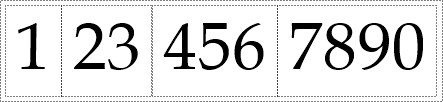
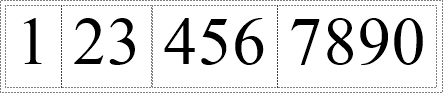
Began experimenting with drawing brackets manually

diff --git a/MathematicsTypesetting/Paths.cs b/MathematicsTypesetting/Paths.cs
@@ -1,0 +1,29 @@
+using System;
+using System.Collections.Generic;
+using System.Linq;
+using System.Text;
+using System.Threading.Tasks;
+using System.Drawing;
+
+namespace MathematicsTypesetting
+{
+    public class Paths
+    {
+        public static System.Drawing.Drawing2D.GraphicsPath GetBracketPath(PointF offset,  float fontHeight = 50, string bracket = "(")
+        {
+            var sf = 2* fontHeight / 10;
+
+            var path = new System.Drawing.Drawing2D.GraphicsPath();
+
+            path.AddBezier(new PointF(2.0f * sf, 0.0f * sf), new PointF(1.0f * sf, 1.5f * sf), new PointF(0.2f * sf, 3.5f * sf), new PointF(0.0f * sf, 5.0f * sf));
+
+            path.AddBezier(new PointF(0.0f * sf, 5.0f * sf), new PointF(1.0f * sf, 7.0f * sf), new PointF(2.0f * sf, 8.0f * sf), new PointF(3.0f * sf, 10.0f * sf));
+
+            path.AddBezier(new PointF(3.1f * sf, 10.0f * sf), new PointF(2.1f * sf, 8.0f * sf), new PointF(1.2f * sf, 7.0f * sf), new PointF(0.3f * sf, 5.0f * sf));
+
+            path.AddBezier(new PointF(0.3f * sf, 5.0f * sf), new PointF(1.2f * sf, 3.0f * sf), new PointF(2.1f * sf, 2.0f * sf), new PointF(3.1f * sf, 0.0f * sf));
+
+            return path;
+        }
+    }
+}

diff --git a/MathematicsTypesetting/PNGExporter.cs b/MathematicsTypesetting/PNGExporter.cs
@@ -79,6 +79,10 @@ namespace MathematicsTypesetting
         protected void ExportBracketExpression(Graphics graphics, BracketExpression bracketExpression)
         {
             ExportElement(graphics, bracketExpression.InnerExpression);
+
+            var p1 = Paths.GetBracketPath(new PointF( (float) bracketExpression.Position.X.Quantity, (float)  bracketExpression.Position.Y.Quantity));
+            
+            graphics.DrawPath(Pens.Black, p1);
         }
 
         protected void ExportSubscript(Graphics graphics, Subscript subscript)

diff --git a/MathematicsTypesetting/FontStyle.cs b/MathematicsTypesetting/FontStyle.cs
@@ -15,7 +15,7 @@ namespace MathematicsTypesetting
 
         public FontStyle()
         {
-            FontName = "Book Antiqua";
+            FontName = "Times New Roman";
             FontHeight = new Length(50, LengthUnits.Points);
             FontColour = new Colour();
             FontEmphasis = FontEmphasis.None;
